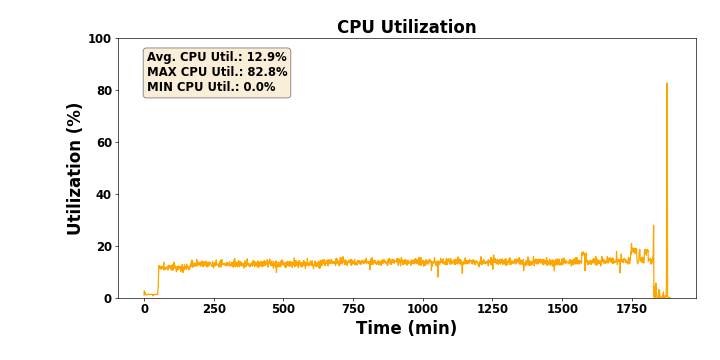
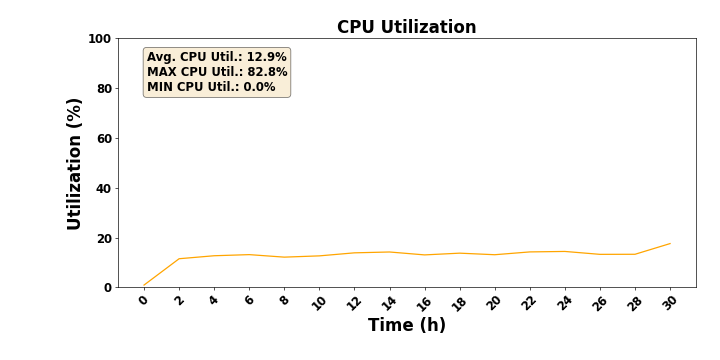
file/folder structure changed

diff --git a/tools/resource_utilization/disk_utilization.py b/tools/resource_utilization/disk_utilization.py
@@ -4,7 +4,7 @@ import numpy as np
 
 # io bandwidth diagram
 
-def draw_io_bandwidth(iostat_file):
+def draw_io_bandwidth(iostat_file, min_hour, interval):
     print('Generating I/O bandwidth diagram ...')
 
 
@@ -29,9 +29,14 @@ def draw_io_bandwidth(iostat_file):
 
     idx = []
 
-    for i in range(len(read_list)):
-        if i % 1 == 0:
-            idx.append(i)
+    if min_hour == 'h':
+        for i in range(len(read_list)):
+            if i % (interval*60) == 0:
+                idx.append(i)
+    else:
+        for i in range(len(read_list)):
+            if i % interval == 0:
+                idx.append(i)
 
     new_read_list = []
     new_write_list = []
@@ -48,11 +53,14 @@ def draw_io_bandwidth(iostat_file):
     plt.rcParams.update({'font.size': 14.0, 'font.weight': 'bold'})
 
     fig, ax = plt.subplots()
-    ax.set_xlabel('Time (min)', fontweight='bold', fontsize=20.0)
+    ax.set_xlabel('Time (%s)' %min_hour, fontweight='bold', fontsize=20.0)
     ax.set_ylabel('Bandwidth (MB/s)', fontweight='bold', fontsize=20.0)
     ax.set_title('Distribution of I/O Bandwidth', fontweight='bold', fontsize=20.0)
 
-    x = np.arange(len(new_read_list))
+    x = []
+    for i in range(len(new_read_list)):
+        x.append(i*interval)
+
     y = new_write_list
     z = new_read_list
     ax.set_ylim([0, max(read_max, write_max) + 20])
@@ -66,6 +74,8 @@ def draw_io_bandwidth(iostat_file):
     ax.text(0.05, 0.95, textstr, transform=ax.transAxes, fontsize=14,
             verticalalignment='top', bbox=props)
 
+    plt.xticks(rotation=45)
+    plt.xticks(np.arange(0, max(x)+1, interval))
     plt.plot(x, z, linestyle="-", marker="o", label="Read")
     plt.plot(x, y, linestyle="-", marker="o", label="Write")
     plt.legend(loc="upper right")
@@ -78,7 +88,7 @@ def draw_io_bandwidth(iostat_file):
 
 # disk utilization diagram
 
-def disk_utilization(iostat_file):
+def disk_utilization(iostat_file, min_hour, interval):
     print('Generating disk utilization diagram ...')
 
     disk_util = []
@@ -95,15 +105,36 @@ def disk_utilization(iostat_file):
     max_disk_util = max(disk_util)
     min_disk_util = min(disk_util)
 
+    idx = []
+
+    if min_hour == 'h':
+        for i in range(len(disk_util)):
+            if i % (interval*60) == 0:
+                idx.append(i)
+    else:
+        for i in range(len(disk_util)):
+            if i % interval == 0:
+                idx.append(i)
+
+    new_disk_util = []
+
+    for i, item in enumerate(disk_util):
+        if i in idx:
+            new_disk_util.append(item)
+
+
     plt.rcParams.update({'font.size': 14.0, 'font.weight': 'bold'})
 
     fig, ax = plt.subplots()
-    ax.set_xlabel('Time (min)', fontweight='bold', fontsize=20.0)
+    ax.set_xlabel('Time (%s)' %min_hour, fontweight='bold', fontsize=20.0)
     ax.set_ylabel('Utilization (%)', fontweight='bold', fontsize=20.0)
     ax.set_title('Disk Utilization', fontweight='bold', fontsize=20.0)
 
-    x = np.arange(len(disk_util))
-    y = disk_util
+    x = []
+    for i in range(len(new_disk_util)):
+        x.append(i*interval)
+
+    y = new_disk_util
     ax.set_ylim([0, 100])
     props = dict(boxstyle='round', facecolor='wheat', alpha=0.5)
 
@@ -116,6 +147,8 @@ def disk_utilization(iostat_file):
     ax.text(0.05, 0.95, textstr, transform=ax.transAxes, fontsize=14,
             verticalalignment='top', bbox=props)
 
+    plt.xticks(rotation=45)
+    plt.xticks(np.arange(0, max(x)+1, interval))
     plt.plot(x, y)
     plt.tight_layout()
     plt.gcf().set_size_inches(12, 6)

diff --git a/tools/resource_utilization/cpu_utilization.py b/tools/resource_utilization/cpu_utilization.py
@@ -4,7 +4,7 @@ import numpy as np
 
 # cpu utilization diagram
 
-def cpu_utilization(iostat_file):
+def cpu_utilization(iostat_file, min_hour, interval):
 
     print('Generating CPU utilization diagram ...')
 
@@ -23,15 +23,35 @@ def cpu_utilization(iostat_file):
     max_cpu_util = max(cpu_util)
     min_cpu_util = min(cpu_util)
 
+    idx = []
+
+    if min_hour == 'h':
+        for i in range(len(cpu_util)):
+            if i % (interval*60) == 0:
+                idx.append(i)
+    else:
+        for i in range(len(cpu_util)):
+            if i % interval == 0:
+                idx.append(i)
+
+    new_cpu_util = []
+
+    for i, item in enumerate(cpu_util):
+        if i in idx:
+            new_cpu_util.append(item)
+
     plt.rcParams.update({'font.size': 14.0, 'font.weight': 'bold'})
 
     fig, ax = plt.subplots()
-    ax.set_xlabel('Time (min)', fontweight='bold', fontsize=20.0)
+    ax.set_xlabel('Time (%s)' %min_hour, fontweight='bold', fontsize=20.0)
     ax.set_ylabel('Utilization (%)', fontweight='bold', fontsize=20.0)
     ax.set_title('CPU Utilization', fontweight='bold', fontsize=20.0)
 
-    x = np.arange(len(cpu_util))
-    y = cpu_util
+    x = []
+    for i in range(len(new_cpu_util)):
+        x.append(i*interval)
+
+    y = new_cpu_util
     ax.set_ylim([0, 100])
     props = dict(boxstyle='round', facecolor='wheat', alpha=0.5)
 
@@ -44,6 +64,8 @@ def cpu_utilization(iostat_file):
     ax.text(0.05, 0.95, textstr, transform=ax.transAxes, fontsize=14,
             verticalalignment='top', bbox=props)
 
+    plt.xticks(rotation=45)
+    plt.xticks(np.arange(0, max(x)+1, interval))
     plt.plot(x, y, 'orange')
     plt.tight_layout()
     plt.gcf().set_size_inches(12, 6)

diff --git a/tools/resource_utilization/resource_utilization.py b/tools/resource_utilization/resource_utilization.py
@@ -1,0 +1,30 @@
+import time
+import disk_utilization as disk
+import cpu_utilization as cpu
+# import gpu_utilization as gpu
+
+
+iostat_file = input('Enter iostat file path: ')
+min_hour_input = input('Enter time format (h/m): ')
+if min_hour_input == 'h':
+    min_hour_input = 'h'
+    interval_input = input('Enter hour interval: ')
+elif min_hour_input == 'm':
+    min_hour_input = 'm'
+    interval_input = input('Enter minute interval: ')
+else:
+    print('Input format error!')
+    exit()
+
+start_time = time.time()
+
+print('Retrieving data ...')
+
+
+disk.draw_io_bandwidth(iostat_file, min_hour_input, int(interval_input))
+disk.disk_utilization(iostat_file, min_hour_input, int(interval_input))
+cpu.cpu_utilization(iostat_file, min_hour_input, int(interval_input))
+# gpu.gpu_utilization(iostat_file, min_hour_input, int(interval_input))
+
+
+print('Total execution time: %0.1f seconds: ' %round(time.time() - start_time, 2))
